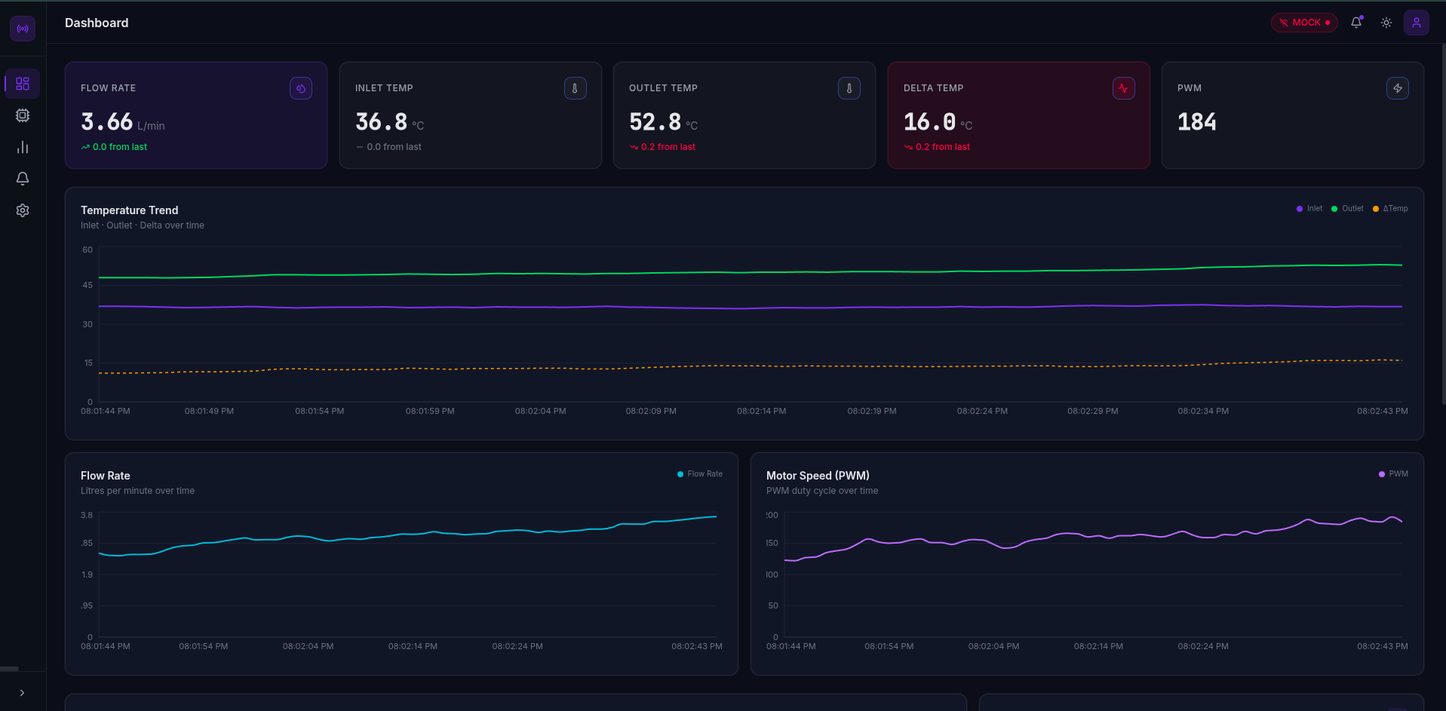
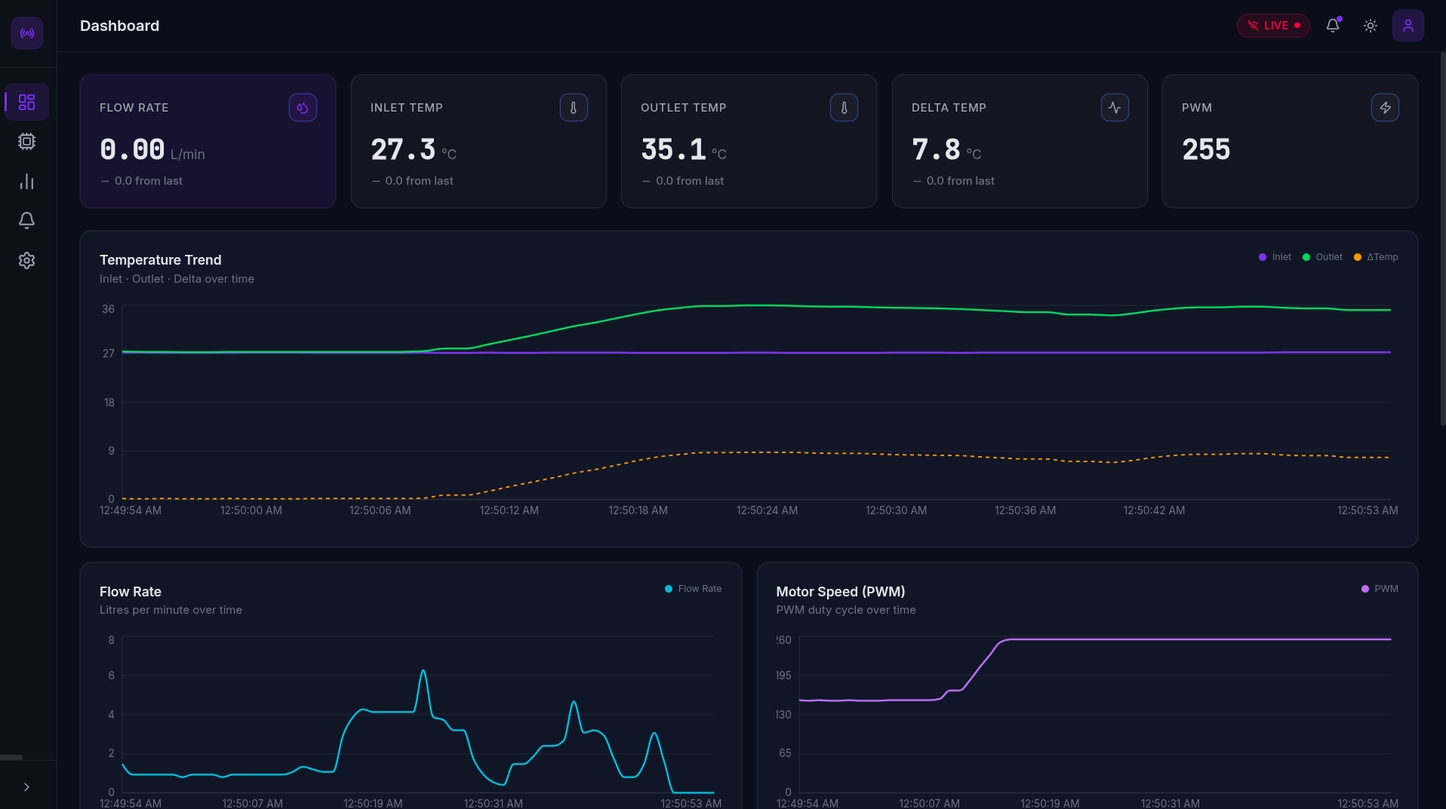
refactor: update client sensor connectivity state and revise LaTeX report formatting and content

diff --git a/client/src/components/layout/Topbar.jsx b/client/src/components/layout/Topbar.jsx
@@ -1,6 +1,6 @@
 import { Bell, Sun, Moon, User, Wifi, WifiOff } from 'lucide-react';
 
-export default function Topbar({ title, socketConnected, modeLabel, onToggleTheme, isDark }) {
+export default function Topbar({ title, overallConnected, modeLabel, onToggleTheme, isDark }) {
   return (
     <header className="h-14 flex items-center justify-between px-6 border-b border-theme-subtle bg-theme-sidebar/80 backdrop-blur-sm sticky top-0 z-30">
       {/* Page title */}
@@ -11,13 +11,13 @@ export default function Topbar({ title, socketConnected, modeLabel, onToggleThem
         {/* WS connection badge */}
         <div className={`
           hidden sm:flex items-center gap-1.5 px-2.5 py-1 rounded-full text-xs font-medium border transition-all duration-300
-          ${socketConnected
+          ${overallConnected
             ? 'border-success/25 bg-success/10 text-success'
             : 'border-danger/25  bg-danger/10  text-danger'}
         `}>
-          {socketConnected ? <Wifi className="h-3 w-3" /> : <WifiOff className="h-3 w-3" />}
+          {overallConnected ? <Wifi className="h-3 w-3" /> : <WifiOff className="h-3 w-3" />}
           <span>{modeLabel}</span>
-          <span className={`h-1.5 w-1.5 rounded-full ${socketConnected ? 'bg-success animate-pulse-dot' : 'bg-danger'}`} />
+          <span className={`h-1.5 w-1.5 rounded-full ${overallConnected ? 'bg-success animate-pulse-dot' : 'bg-danger'}`} />
         </div>
 
         {/* Notifications */}

diff --git a/client/src/App.jsx b/client/src/App.jsx
@@ -43,7 +43,7 @@ function AppShell() {
   const pageTitle = PAGE_TITLES[location.pathname] ?? 'Dashboard';
 
   const sensorState = useSensorData();
-  const { sensorData, socketConnected } = sensorState;
+  const { sensorData, overallConnected, socketConnected } = sensorState;
   const modeLabel = sensorData?.mode === 'REAL' ? 'LIVE' : 'MOCK';
 
   return (
@@ -55,7 +55,7 @@ function AppShell() {
       <div className="flex flex-col flex-1 min-w-0 overflow-hidden">
         <Topbar
           title={pageTitle}
-          socketConnected={socketConnected}
+          overallConnected={overallConnected}
           modeLabel={modeLabel}
           onToggleTheme={handleToggleTheme}
           isDark={isDark}

diff --git a/report/index.tex b/report/index.tex
@@ -16,6 +16,10 @@
 \usepackage{listings}
 \usepackage{xcolor}
 \usepackage{float}
+\usepackage{titlesec}
+
+% Reduce spacing around chapter headings (like Contents, Abstract, Chapter 1)
+\titlespacing*{\chapter}{0pt}{-20pt}{20pt}
 
 % Code formatting
 \lstset{
@@ -36,7 +40,7 @@
 \raggedbottom
 
 % Title Information
-\title{\textbf{PI-BASED CASCADE CONTROL FOR FRESNEL SOLAR COLLECTOR PROTOTYPE FOR WASTEWATER RECLAMATION}}
+\title{\textbf{PROPORTIONAL - BASED CASCADE CONTROL FOR \\ FRESNEL SOLAR COLLECTOR \\ PROTOTYPE FOR WASTEWATER \\ RECLAMATION}}
 \author{Suryansh Verma, Karni Kumar Snehal, Sabbani Mahesh}
 \date{29 April, 2026}
 
@@ -45,14 +49,14 @@
 % Title Page
 \begin{titlepage}
     \centering
-    \vspace*{1.5cm}
+    \vspace*{0.5cm}
     
-    {\Huge \textbf{PI-BASED CASCADE CONTROL FOR FRESNEL SOLAR COLLECTOR PROTOTYPE FOR WASTEWATER RECLAMATION} \par}
-    \vspace{1.5cm}
+    {\Huge \textbf{PROPORTIONAL - BASED CASCADE CONTROL FOR \\[0.5em] FRESNEL SOLAR COLLECTOR \\[0.5em] PROTOTYPE FOR WASTEWATER \\[0.5em] RECLAMATION} \par}
+    \vspace{1.0cm}
     
     {\Large \textbf{Electrical Engineering Minor Project} \par}
     
-    \vspace{1.5cm}
+    \vspace{1.0cm}
     
     {\large \textbf{Submitted by:} \par}
     \vspace{0.3cm}
@@ -60,7 +64,7 @@
     {\large Karni Kumar Snehal (2302010) \par}
     {\large Sabbani Mahesh (2302069) \par}
     
-    \vspace{1.5cm}
+    \vspace{1.0cm}
     
     {\large \textbf{Under the guidance of:} \par}
     \vspace{0.3cm}
@@ -76,11 +80,14 @@
 
 % Abstract
 \chapter*{Abstract}
-\addcontentsline{toc}{chapter}{Abstract}
-The integration of solar thermal energy in industrial processes offers a sustainable alternative to conventional energy sources, particularly for energy-intensive applications like wastewater reclamation. This minor project focuses on the development of a proportional-integral (PI) based cascade control system for a Fresnel solar collector prototype, designed specifically for water treatment. The primary objective is to maintain an optimal temperature differential across the solar collector by dynamically adjusting the fluid flow rate. The electrical hardware comprises an Arduino microcontroller, DS18B20 digital temperature sensors, a flow rate sensor, and an L298N motor driver controlling a pump via Pulse Width Modulation (PWM). A PI-based control algorithm was implemented to process real-time sensor feedback and adjust the motor speed accordingly, ensuring thermal stability. To facilitate system monitoring and evaluation, a lightweight Full-Stack IoT dashboard was also integrated, utilizing Node.js for serial communication and React for real-time visualization. The prototype successfully demonstrates a cost-effective, robust, and scalable electrical control solution for solar thermal systems, paving the way for advanced automation in large-scale wastewater treatment facilities.
+The integration of solar thermal energy in industrial processes offers a sustainable alternative to conventional energy sources, particularly for energy-intensive applications like wastewater reclamation. This minor project focuses on the development of a proportional-based cascade control system for a Fresnel solar collector prototype, designed specifically for water treatment. The primary objective is to maintain an optimal temperature differential across the solar collector by dynamically adjusting the fluid flow rate. The electrical hardware comprises an Arduino microcontroller, DS18B20 digital temperature sensors, a flow rate sensor, and an L298N motor driver controlling a pump via Pulse Width Modulation (PWM). A proportional-based control algorithm was implemented to process real-time sensor feedback and adjust the motor speed accordingly, ensuring thermal stability. To facilitate system monitoring and evaluation, a lightweight Full-Stack IoT dashboard was also integrated, utilizing Node.js for serial communication and React for real-time visualization. The prototype successfully demonstrates a cost-effective, robust, and scalable electrical control solution for solar thermal systems, paving the way for advanced automation in large-scale wastewater treatment facilities.
 
 % Table of Contents
 \tableofcontents
+\newpage
+
+% List of Figures
+\listoffigures
 \newpage
 
 % Chapters
@@ -102,10 +109,10 @@ Recent advancements in electrical engineering, control systems, and solar energy
 
 \begin{enumerate}
     \item \textbf{PI-based cascade control for Fresnel solar collectors in wastewater reclamation} \citep{rodriguez2024}: This study presents a demonstration-scale integration of a 36-m$^2$ Fresnel solar collector used for water disinfection. The authors implemented a PI-based cascade control approach for the automatic operation of the photoreactor, successfully achieving EU water quality standards while maintaining operational temperatures up to 60$^\circ$C.
-    \item \textbf{Predictive control of wastewater treatment plants as energy-autonomous water resource recovery facilities} \citep{neto2025}: Neto et al. proposed a model predictive controller (MPC) aimed at operating conventional WWTPs as energy-autonomous facilities. By optimizing the plant to produce specific water qualities while generating sufficient biogas, the study provides a proof-of-concept for zero-energy-cost operations.
-    \item \textbf{Qualitative and Quantitative Evaluation of the Wastewater Treatment Plant - Type stabilization ponds} \citep{hamid2014}: This paper evaluates the performance of stabilization ponds in Errachidia City, Morocco. The study highlights the impact of climatic conditions on treatment efficiency, showing maximum yields of 60\% for BOD$_5$ and 51\% for COD during warmer periods, emphasizing the importance of thermal energy in biological treatment processes.
-    \item \textbf{A Review on Working, Treatment and Performance Evaluation of Sewage Treatment Plant} \citep{majumder2019}: Majumder et al. reviewed various treatment methods and operational efficiencies of sewage treatment plants. The review stresses the critical need for adopting new technologies, automated controllers, and sensors to handle the increasing volume of wastewater generated by rapid urbanization.
-    \item \textbf{Design of Primary Sewage Treatment Plant for Cherpulassery Municipality} \citep{sunaina2021}: This work focuses on the primary treatment and management of sewage in a municipal area. It underlines the necessity of localized treatment plants to remove harmful materials and the potential of implementing new process control techniques to mitigate priority pollutants.
+    \item \textbf{An intelligent cloud-enabled system for water quality index prediction of sewage treatment plant using deep learning models} \citep{riya2025}: Riya et al. developed a sophisticated cloud-based infrastructure integrating IoT sensors and deep learning models to predict the water quality index in sewage treatment plants, showcasing the power of modern data acquisition and predictive modeling.
+    \item \textbf{Assessment of microbial water treatment by direct solar radiation disinfection approach} \citep{kopesa2024}: Kopesa et al. investigated the efficacy of solar sterilization. Their research demonstrated that direct solar radiation could successfully eliminate microbial loads (reducing CFU to zero) when subjected to adequate thermal conditions (above 44.5$^\circ$C) and exposure time, underscoring the importance of temperature monitoring.
+    \item \textbf{Demonstration-scale urban wastewater reclamation using concentrated solar radiation} \citep{rodriguez2025}: This recent paper explores the enhancement of solar disinfection (SODIS) through concentrated solar technology at a demonstration scale. It highlights how integrating renewable solar energy reduces operational costs and enables efficient wastewater reclamation for crop irrigation.
+    \item \textbf{Modeling Escherichia coli inactivation during solar disinfection: Effects of UV intensity, water temperature, and turbidity} \citep{nwankwo2024}: Nwankwo and Ekwueme developed a comprehensive regression model for predicting the inactivation of E. coli during solar disinfection. Their work emphasizes water temperature as a critical independent variable in the disinfection process, validating the need for strict thermal control.
 \end{enumerate}
 
 \section{Motivation and key reasearch gaps}
@@ -119,11 +126,11 @@ Key research gaps include:
 \end{itemize}
 
 \section{Present Work and contribution}
-This minor project develops a complete electrical control prototype for regulating a Fresnel solar collector intended for wastewater treatment applications. The system utilizes a PI-based cascade control strategy deployed on an Arduino microcontroller to regulate the flow rate of water through the collector based on real-time temperature differentials. To complement the electrical hardware and demonstrate modern data acquisition, a lightweight IoT dashboard was developed, enabling real-time visualization and remote monitoring of the control signals. 
+This minor project develops a complete electrical control prototype for regulating a Fresnel solar collector intended for wastewater treatment applications. The system utilizes a proportional-based cascade control strategy deployed on an Arduino microcontroller to regulate the flow rate of water through the collector based on real-time temperature differentials. To complement the electrical hardware and demonstrate modern data acquisition, a lightweight IoT dashboard was developed, enabling real-time visualization and remote monitoring of the control signals. 
 
 The key contributions of this work are:
 \begin{itemize}
-    \item Design and implementation of a PI-based closed-loop electrical control system using an Arduino microcontroller and a motor driver.
+    \item Design and implementation of a proportional-based closed-loop electrical control system using an Arduino microcontroller and a motor driver.
     \item Integration of a 1-Wire sensor network using DS18B20 digital temperature sensors for reliable, noise-resistant thermal feedback.
     \item Development of an automated PWM-based flow regulation system that dynamically responds to temperature changes to optimize heat transfer.
     \item Implementation of a supporting IoT architecture that parses serial data and broadcasts it for real-time performance monitoring.
@@ -134,48 +141,53 @@ The key contributions of this work are:
 The prototype system consists of several integrated electrical and software components that work together to form a closed-loop control and monitoring architecture.
 
 \section{Arduino Microcontroller}
-The core processing unit of the prototype is an Arduino microcontroller. It acts as the central hub, responsible for acquiring signals from the sensors, executing the PI control algorithm, and generating the necessary output signals to drive the actuators. The Arduino samples the temperature and flow sensors at a frequency of 1 Hz, computes the error between the inlet and outlet temperatures, and updates the PWM output to adjust the motor speed accordingly.
+The core processing unit of the prototype is an Arduino microcontroller, as shown in Figure \ref{fig:arduino}. It acts as the central hub, responsible for acquiring signals from the sensors, executing the proportional control algorithm, and generating the necessary output signals to drive the actuators. The Arduino samples the temperature and flow sensors at a frequency of 1 Hz, computes the error between the inlet and outlet temperatures, and updates the PWM output to adjust the motor speed accordingly.
 
 \begin{figure}[H]
     \centering
     \includegraphics[width=0.4\textwidth]{assets/arduino.png}
     \caption{Arduino Uno Microcontroller}
+    \label{fig:arduino}
 \end{figure}
 
 \section{DS18B20 Temperature Sensors}
-Two DS18B20 digital temperature sensors are employed to measure the inlet and outlet temperatures of the Fresnel solar collector. These sensors provide 9-bit to 12-bit Celsius temperature measurements and communicate over a 1-Wire bus. This protocol is highly beneficial for the project as it allows multiple sensors to be connected using a single data line (along with a 4.7k$\Omega$ pull-up resistor), significantly reducing wiring complexity and susceptibility to analog noise in an industrial environment.
+As illustrated in Figure \ref{fig:ds18b20}, two DS18B20 digital temperature sensors are employed to measure the inlet and outlet temperatures of the Fresnel solar collector. These sensors provide 9-bit to 12-bit Celsius temperature measurements and communicate over a 1-Wire bus. This protocol is highly beneficial for the project as it allows multiple sensors to be connected using a single data line (along with a 4.7k$\Omega$ pull-up resistor), significantly reducing wiring complexity and susceptibility to analog noise in an industrial environment.
 
 \begin{figure}[H]
     \centering
     \includegraphics[width=0.3\textwidth]{assets/TemperatureSensor.jpg}
     \caption{DS18B20 Temperature Sensor}
+    \label{fig:ds18b20}
 \end{figure}
 
 \section{Flow Rate Sensor}
-A pulse-generating Hall-effect flow sensor is installed in the fluid pipeline. It is connected to a hardware interrupt pin on the Arduino (Pin 2). As water flows through the sensor, a rotor with a magnet turns, and a Hall-effect sensor outputs a corresponding electrical pulse. By counting these pulses over a specific time interval, the microcontroller accurately calculates the real-time volumetric flow rate of the water, providing crucial feedback for the control loop.
+A pulse-generating Hall-effect flow sensor, depicted in Figure \ref{fig:flow_sensor}, is installed in the fluid pipeline. It is connected to a hardware interrupt pin on the Arduino (Pin 2). As water flows through the sensor, a rotor with a magnet turns, and a Hall-effect sensor outputs a corresponding electrical pulse. By counting these pulses over a specific time interval, the microcontroller accurately calculates the real-time volumetric flow rate of the water, providing crucial feedback for the control loop.
 
 \begin{figure}[H]
     \centering
     \includegraphics[width=0.4\textwidth]{assets/flow_sensor.png}
     \caption{YF-S201 Hall-Effect Water Flow Sensor}
+    \label{fig:flow_sensor}
 \end{figure}
 
 \section{Motor Driver (L298N) and Pump}
-The actuator in this system is a DC water pump driven by an L298N dual H-bridge motor driver. The Arduino outputs a Pulse Width Modulation (PWM) signal to the Enable pin (ENA) of the motor driver, effectively controlling the average voltage applied to the pump. By varying the duty cycle of the PWM signal between 0 and 100\% (represented as 8-bit values from 0 to 255), the system can precisely throttle the pump's RPM, thereby adjusting the water flow rate through the solar collector.
+The actuator in this system is a DC water pump driven by an L298N dual H-bridge motor driver, shown in Figure \ref{fig:l298n}. The Arduino outputs a Pulse Width Modulation (PWM) signal to the Enable pin (ENA) of the motor driver, effectively controlling the average voltage applied to the pump. By varying the duty cycle of the PWM signal between 0 and 100\% (represented as 8-bit values from 0 to 255), the system can precisely throttle the pump's RPM, thereby adjusting the water flow rate through the solar collector.
 
 \begin{figure}[H]
     \centering
     \includegraphics[width=0.4\textwidth]{assets/l298n.png}
     \caption{L298N Motor Driver Module}
+    \label{fig:l298n}
 \end{figure}
 
 \section{IoT Monitoring Dashboard}
-To observe the electrical system's performance, a supplementary IoT dashboard was developed. The Arduino streams its calculated metrics (flow rate, temperatures, $\Delta T$, and PWM value) over an asynchronous serial connection (USB/UART) in JSON format. A Node.js backend server captures this data via the \texttt{serialport} library and broadcasts it through WebSockets. A frontend interface, built with React, visualizes this data using dynamic, real-time charts, allowing operators to monitor the PI controller's behavior and system stability remotely.
+To observe the electrical system's performance, a supplementary IoT dashboard was developed (Figure \ref{fig:dashboard}). The Arduino streams its calculated metrics (flow rate, temperatures, $\Delta T$, and PWM value) over an asynchronous serial connection (USB/UART) in JSON format. A Node.js backend server captures this data via the \texttt{serialport} library and broadcasts it through WebSockets. A frontend interface, built with React, visualizes this data using dynamic, real-time charts, allowing operators to monitor the proportional controller's behavior and system stability remotely.
 
 \begin{figure}[H]
     \centering
     \includegraphics[width=0.9\textwidth]{assets/dashboard.png}
     \caption{Real-Time IoT Monitoring Dashboard}
+    \label{fig:dashboard}
 \end{figure}
 
 \chapter{Control Scheme}
@@ -184,10 +196,11 @@ The primary objective of the electrical control scheme is to maintain an optimal
 \begin{figure}[H]
     \centering
     \includegraphics[width=0.8\textwidth]{assets/ControlSystemDiagram.png}
-    \caption{PI-Based Control System Block Diagram}
+    \caption{Proportional-Based Control System Block Diagram}
+    \label{fig:control_diagram}
 \end{figure}
 
-A closed-loop Proportional-Integral (PI) based control logic is implemented to mitigate this. For this minor project prototype, a robust Proportional control approach was emphasized, acting as the primary responsive element in the cascade setup. A base motor speed ($PWM_{base}$) is defined to maintain a minimum continuous fluid flow, ensuring the sensors always read active fluid temperatures rather than stagnant pockets. 
+As shown in the block diagram (Figure \ref{fig:control_diagram}), a closed-loop proportional-based control logic is implemented to mitigate this. For this minor project prototype, a robust Proportional control approach was emphasized, acting as the primary responsive element in the cascade setup. A base motor speed ($PWM_{base}$) is defined to maintain a minimum continuous fluid flow, ensuring the sensors always read active fluid temperatures rather than stagnant pockets. 
 
 The control algorithm calculates the error, defined as the difference between the outlet and inlet temperatures ($\Delta T = T_{out} - T_{in}$). A proportional gain ($K_p = 15.0$) is then applied to this error. As the temperature difference increases, the controller proportionally increases the motor speed to pump more water, absorbing the excess thermal energy.
 
@@ -209,7 +222,7 @@ The calculated $PWM_{value}$ is then mathematically constrained to the permissib
   // Ignore negative difference
   if (deltaTemp < 0) deltaTemp = 0;
 
-  // PI-based Cascade Control (Proportional Action)
+  // Proportional-based Cascade Control
   // Speed increases with temp difference
   float control = Kp * deltaTemp;
 
@@ -225,7 +238,7 @@ The calculated $PWM_{value}$ is then mathematically constrained to the permissib
 This cascade mechanism allows the primary variable (temperature) to directly manipulate the secondary variable (flow rate), ensuring rapid disturbance rejection and maintaining process stability.
 
 \chapter{Results and Discussion}
-The performance of the PI-based control system was evaluated by observing the real-time interaction between the temperature sensors and the motor PWM output. 
+The performance of the proportional-based control system was evaluated by observing the real-time interaction between the temperature sensors and the motor PWM output. 
 
 \section{Hardware and Control Response}
 During operation, the DS18B20 sensors provided stable and accurate readings. When heat was applied to simulate solar irradiance on the collector prototype, the outlet temperature rose steadily. As the $\Delta T$ crossed the threshold, the microcontroller instantaneously amplified the PWM signal sent to the L298N driver. This was visibly confirmed by an increase in pump RPM and a corresponding spike in the flow rate sensor's pulse count. The constrained proportional control proved highly effective; it prevented integral windup (as a pure P-controller base was used for the immediate prototype) while maintaining the $\Delta T$ within safe operational bounds.
@@ -246,8 +259,42 @@ The data acquisition pipeline functioned flawlessly. The Arduino successfully fo
 
 The Node.js server captured this data continuously, ignoring malformed packets caused by serial connection noise. The React-based dashboard accurately plotted the dynamic relationship between $\Delta T$ and the PWM duty cycle on a 60-second rolling graph. This proved invaluable for verifying the closed-loop system, as any artificial change to the sensor temperatures immediately manifested as a curve adjustment in the motor's electrical drive signal.
 
+\section{System Demonstration}
+A physical demonstration of the complete prototype was conducted and documented on video. The demonstration clearly illustrates the immediate mechanical response of the water pump as the simulated solar irradiance increases the temperature differential. 
+
+As seen in Figure \ref{fig:demo_grid}, multiple angles of the working prototype illustrate the physical layout.
+\begin{figure}[H]
+    \centering
+    \begin{subfigure}{0.45\textwidth}
+        \includegraphics[width=\textwidth]{practical_images/IMG_1488.jpg}
+        \caption{Prototype View 1}
+        \label{fig:demo1}
+    \end{subfigure}
+    \hfill
+    \begin{subfigure}{0.45\textwidth}
+        \includegraphics[width=\textwidth]{practical_images/IMG_1489.jpg}
+        \caption{Prototype View 2}
+        \label{fig:demo2}
+    \end{subfigure}
+    
+    \vspace{0.5cm}
+    \begin{subfigure}{0.45\textwidth}
+        \includegraphics[width=\textwidth]{practical_images/IMG_1490.jpg}
+        \caption{Prototype View 3}
+        \label{fig:demo3}
+    \end{subfigure}
+    \hfill
+    \begin{subfigure}{0.45\textwidth}
+        \includegraphics[width=\textwidth]{practical_images/IMG_1491.jpg}
+        \caption{Prototype View 4}
+        \label{fig:demo4}
+    \end{subfigure}
+    \caption{Various views of the live prototype demonstration during operation.}
+    \label{fig:demo_grid}
+\end{figure}
+
 \chapter{Conclusion and future Scope}
-This minor project successfully demonstrated the design and implementation of a PI-based cascade control system for a Fresnel solar collector prototype. From an electrical engineering perspective, the system efficiently integrates digital sensors (DS18B20, Hall-effect) with robust actuator control (PWM via L298N) using an Arduino microcontroller. The chosen proportional control algorithm effectively regulated the fluid flow based on dynamic thermal differentials, mimicking the rigorous demands of wastewater disinfection and energy reclamation processes. Furthermore, the inclusion of a full-stack IoT dashboard showcased how classical process control can be seamlessly paired with modern web technologies for advanced real-time monitoring and data logging.
+This minor project successfully demonstrated the design and implementation of a proportional-based cascade control system for a Fresnel solar collector prototype. From an electrical engineering perspective, the system efficiently integrates digital sensors (DS18B20, Hall-effect) with robust actuator control (PWM via L298N) using an Arduino microcontroller. The chosen proportional control algorithm effectively regulated the fluid flow based on dynamic thermal differentials, mimicking the rigorous demands of wastewater disinfection and energy reclamation processes. Furthermore, the inclusion of a full-stack IoT dashboard showcased how classical process control can be seamlessly paired with modern web technologies for advanced real-time monitoring and data logging.
 
 Future scope for this project includes expanding the control algorithm to a full PID or Model Predictive Control (MPC) system to handle more complex thermal dynamics and predictive solar tracking. Electrically, the motor driver could be upgraded to an industrial-grade Variable Frequency Drive (VFD) for operating larger AC pumps. Additionally, implementing edge-computing algorithms on the microcontroller to detect sensor faults automatically and transitioning to wireless data transmission protocols (such as LoRa or ESP32-based Wi-Fi) would make the system highly suitable for decentralized, large-scale wastewater treatment facilities.
 
@@ -260,15 +307,10 @@ Future scope for this project includes expanding the control algorithm to a full
 \setlength{\itemsep}{0pt}
 \setlength{\parskip}{0pt}
 \bibitem[Rodríguez-García et al., 2024]{rodriguez2024} Rodríguez-García, D., García Sánchez, J. L., Guzmán, J. L., Casas López, J. L., \& Sánchez Pérez, J. A. (2024). PI-based cascade control for Fresnel solar collectors in wastewater reclamation. \textit{4th IFAC Conference on Advances in Proportional-Integral-Derivative Control}.
-\bibitem[Neto et al., 2025]{neto2025} Neto, O. B. L., Mulas, M., Harjunkoski, I., \& Corona, F. (2025). Predictive control of wastewater treatment plants as energy-autonomous water resource recovery facilities. \textit{arXiv preprint arXiv:2506.10490}.
-\bibitem[Hamid \& Elwatik, 2014]{hamid2014} Hamid, C., \& Elwatik, L. (2014). Qualitative and Quantitative Evaluation of the Wastewater Treatment Plant -Type stabilization ponds- of Errachidia City -Morocco- During the Period 2006-2010. \textit{IOSR Journal of Engineering (IOSRJEN)}, 4(6), 50-57.
-\bibitem[Majumder et al., 2019]{majumder2019} Majumder, S., Poornesh, Reethupoorna M.B., \& Mustafa, R. (2019). A Review on Working, Treatment and Performance Evaluation of Sewage Treatment Plant. \textit{International Journal of Engineering Research and Application}, 9(3), 41-49.
-\bibitem[Sunaina et al., 2021]{sunaina2021} Sunaina, T., et al. (2021). Design of Primary Sewage Treatment Plant for Cherpulassery Municipality. \textit{International Research Journal of Engineering and Technology (IRJET)}.
-\bibitem[Arduino, 2026]{arduino2026} Arduino. (2026). \textit{Arduino Uno Rev3 Official Documentation \& Reference}.
-\bibitem[OpenJS Foundation, 2026]{nodejs2026} OpenJS Foundation. (2026). \textit{Node.js Documentation}.
-\bibitem[Meta Platforms, 2026]{react2026} Meta Platforms, Inc. (2026). \textit{React: The library for web and native user interfaces}.
-\bibitem[OpenAI, 2026]{chatgpt2026} OpenAI. (2026). \textit{ChatGPT} (GPT-4 architecture) [Large language model].
-\bibitem[Anthropic, 2026]{claude2026} Anthropic. (2026). \textit{Claude} (Claude 3.5 architecture) [Large language model].
+\bibitem[Riya et al., 2025]{riya2025} Riya, Bala, A., Sharma, A., \& Singh, N. (2025). An intelligent cloud-enabled system for water quality index prediction of sewage treatment plant using deep learning models. \textit{Journal of Water Process Engineering}, 78, 108787.
+\bibitem[Kopesa et al., 2024]{kopesa2024} Kopesa, F. B., Feye, M. D., Dechasa, A., Worku, M. G., \& Sorsa, O. (2024). Assessment of microbial water treatment by direct solar radiation disinfection approach. \textit{Journal of Water and Climate Change}, 15(4), 1933.
+\bibitem[Rodríguez-García et al., 2025]{rodriguez2025} Rodríguez-García, D., García Sánchez, J. L., Guzmán, J. L., Arbib, Z., Casas López, J. L., \& Sánchez Pérez, J. A. (2025). Demonstration-scale urban wastewater reclamation using concentrated solar radiation. \textit{Journal of Water Process Engineering}, 78, 108817.
+\bibitem[Nwankwo \& Ekwueme, 2024]{nwankwo2024} Nwankwo, E. J., \& Ekwueme, B. N. (2024). Modeling Escherichia coli inactivation during solar disinfection: Effects of UV intensity, water temperature, and turbidity. \textit{Solar Energy}, 283, 113000.
 \end{thebibliography}
 
 \end{document}
